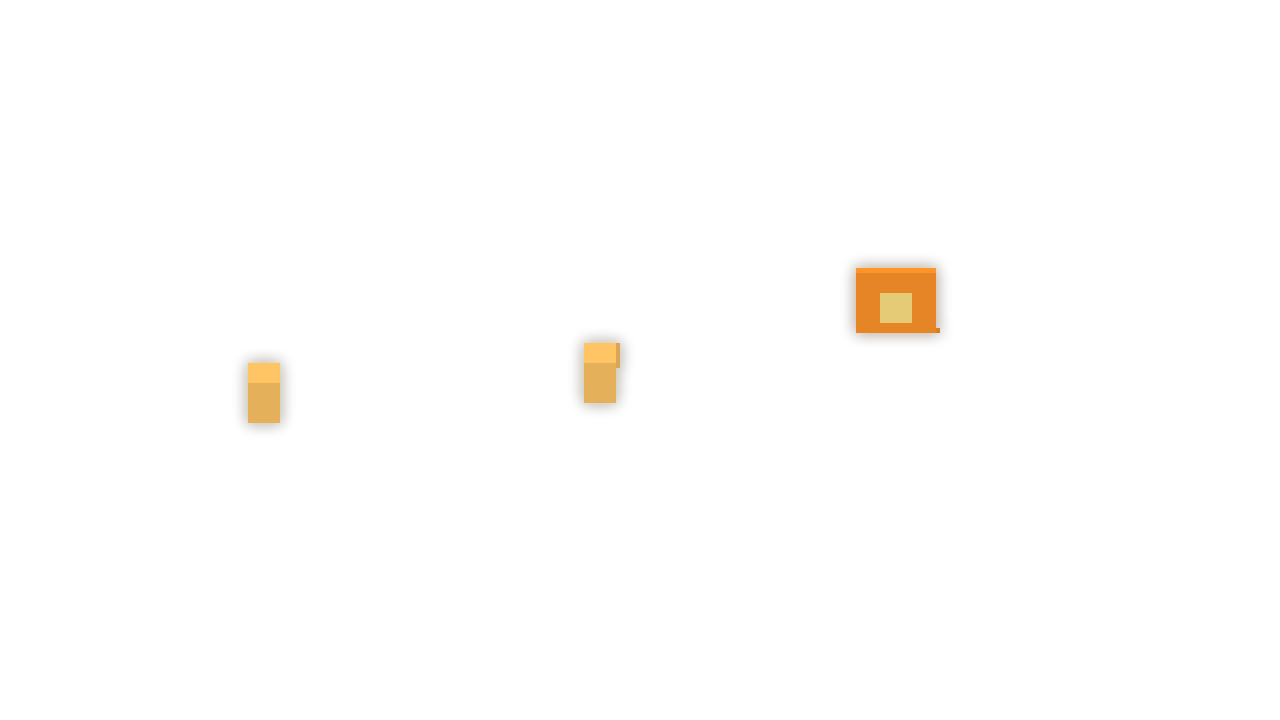
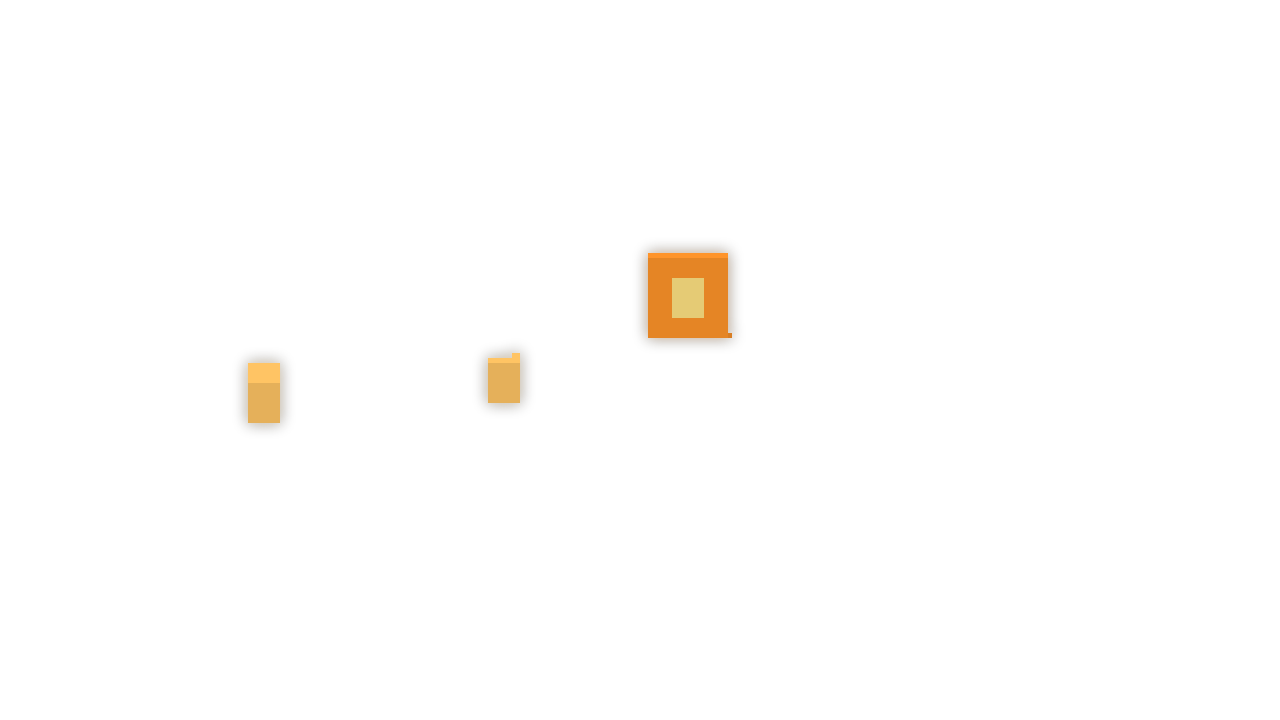
Art: Saloon C concept-scale crew + fireplace clear of every card
Drop sprite scale to 1.0 so hireable figures match concept C (~84×230).
Move the fireplace center-back so both card strips miss it; all seats keep
card_side away from the figure with callout from card edge to anchor.
art_saloon_test asserts card vs fireplace_rect and vs hit_rect.

Changed region(s): [[0.375, 0.3361, 0.5938, 0.5806], [0.6562, 0.3667, 0.75, 0.4889]]

diff --git a/tools/art/saloon_concept_c.py b/tools/art/saloon_concept_c.py
@@ -1,8 +1,9 @@
-"""Vendored concept-C layout for the Saloon bake (from concepts/saloon_v2)."""
-from saloon_iso import *
-from saloon_iso import Scene, figure, stool, table, lightfield
+"""Vendored concept-C layout for the Saloon bake (from concepts/saloon_v2).
 
-WOOD_LT = (138, 108, 78)
+Fireplace sits center-back so BOTH left and right hire-card strips stay clear.
+"""
+from saloon_iso import Scene, figure, stool, table, lightfield, W, D, H
+
 WOOD_DK = (102, 78, 56)
 WOOD_TOP = (152, 118, 84)
 FLOOR_A = (82, 62, 46)
@@ -19,11 +20,25 @@ P = [
     dict(shirt=(132, 62, 52), skin=(208, 170, 132), hat=(200, 112, 48), hatstyle="mohawk", facing="front"),
 ]
 
+# Screen-space fireplace AABB after projection (documented for tests / UI).
+# Voxel x 80–108 → ~640–864 px — between card strips (left≤380, right≥900).
+FIREPLACE_SCREEN = [560, 50, 280, 180]  # structure only; glow may soft-bleed but card clears structure
+FIREPLACE_VOX = [72, 4, 100, 14]
+
+SEATS_VOX = [
+    (32, 21, 9),   # bar_left
+    (44, 46, 9),   # table_left
+    (58, 42, 9),   # table_mid
+    (70, 48, 9),   # table_right — still left of fireplace
+]
+
+
 def floor_boards(sc, c1, c2):
     for x in range(0, W, 8):
         sc.box(x, 0, 0, min(W, x + 8), D, 2, c1 if (x // 8) % 2 else c2, noise=0.035, seed=x)
     for x in range(8, W, 8):
         sc.box(x, 0, 1, x + 1, D, 2, tuple(max(0, v - 14) for v in c2))
+
 
 def build_C(with_hireables=True):
     sc = Scene()
@@ -31,39 +46,41 @@ def build_C(with_hireables=True):
     sc.box(0, 0, 0, W, 5, H, WALL, noise=0.05, seed=4)
     for x in range(6, 140, 30):
         sc.box(x, 3, 0, x + 2, 5, H, (54, 40, 30))
-    # Fireplace mid-right
-    sc.box(98, 4, 2, 126, 11, 20, (90, 84, 78), noise=0.09, seed=8)
-    sc.box(104, 10, 2, 120, 12, 10, (26, 18, 14))
-    sc.box(107, 11, 2, 117, 13, 8, (255, 148, 42), em=True)
-    sc.box(110, 12, 3, 114, 13, 6, (255, 226, 130), em=True)
+    # Fireplace CENTER-BACK (not under either card strip)
+    fx0, fy0, fx1, fy1 = 72, 4, 100, 12
+    sc.box(fx0, fy0, 2, fx1, fy1, 20, (90, 84, 78), noise=0.09, seed=8)
+    sc.box(fx0 + 6, 10, 2, fx1 - 6, 13, 12, (26, 18, 14))
+    sc.box(fx0 + 9, 11, 2, fx1 - 9, 14, 10, (255, 148, 42), em=True)
+    sc.box(fx0 + 12, 12, 4, fx1 - 12, 14, 8, (255, 226, 130), em=True)
+    sc.box(fx0 + 14, 13, 5, fx1 - 14, 14, 7, (255, 250, 200), em=True)
     # Short left bar
     sc.box(6, 12, 2, 62, 18, 12, WOOD_DK, noise=0.04, seed=9)
     sc.box(5, 11, 12, 63, 19, 13, WOOD_TOP)
     for x in (12, 32, 50):
         stool(sc, x, 21, (104, 68, 48), STOOL_LEG)
-    for x, y in ((24, 44), (66, 40)):
+    for x, y in ((24, 44), (54, 40)):
         table(sc, x, y, 18, 10, TABLE_TOP, TABLE_LEG)
         sc.box(x + 7, y + 3, 12, x + 11, y + 7, 16, (255, 196, 100), em=True)
-    for x, y in ((16, 46), (44, 46), (58, 42), (86, 42)):
+    for x, y in ((16, 46), (44, 46), (58, 42), (70, 48)):
         stool(sc, x, y, (96, 66, 46), STOOL_LEG)
     sc.box(4, 54, 2, 14, 64, 8, (86, 66, 48), noise=0.07, seed=12)
     # Bartender
     figure(sc, 26, 4, 2, (92, 58, 50), (198, 152, 114), (72, 52, 44), 0,
            seated=False, facing="front", hatstyle="hood")
-    seats = [(32, 21, 9), (44, 46, 9), (58, 42, 9), (86, 42, 9)]
     pals = [P[0], dict(P[1], hatstyle="wide", hat=(178, 178, 168), facing="front"),
             dict(P[3], hatstyle="cap"), P[2]]
     if with_hireables:
-        for i, (st, p) in enumerate(zip(seats, pals), 1):
+        for i, (st, p) in enumerate(zip(SEATS_VOX, pals), 1):
             kw = dict(p)
             facing = kw.pop("facing", "back")
             hatstyle = kw.pop("hatstyle", "cap")
             figure(sc, *st, own=i, shirt=kw["shirt"], skin=kw["skin"], hat=kw["hat"],
                    seated=True, facing=facing, hatstyle=hatstyle)
+    # Fire light centered on new fireplace
     light = lightfield(0.30, [
-        (112, 14, 0, 42, 1.10),
+        (86, 14, 0, 42, 1.15),
         (33, 49, 0, 18, 0.75),
-        (75, 45, 0, 18, 0.75),
+        (63, 45, 0, 18, 0.75),
         (37, 18, 0, 22, 0.30),
     ])
-    return sc, light, seats
+    return sc, light, list(SEATS_VOX)

diff --git a/tools/art/saloon_room.py b/tools/art/saloon_room.py
@@ -11,10 +11,10 @@ OUT = os.path.join(HERE, "..", "..", "art", "saloon")
 from saloon_iso import night_grade, S, TOP, FRONT  # noqa: E402
 from saloon_concept_c import build_C as _build_C  # noqa: E402
 
-SPRITE_SCALE = 1.35
+SPRITE_SCALE = 1.0  # exact concept C figure scale
 SEAT_IDS = ["bar_left", "table_left", "table_mid", "table_right"]
 # Concept C crew() seat voxel centres
-SEAT_VOX = [(32, 21, 9), (44, 46, 9), (58, 42, 9), (86, 42, 9)]
+SEAT_VOX = [(32, 21, 9), (44, 46, 9), (58, 42, 9), (70, 48, 9)]
 
 
 def write_import(path: str) -> None:
@@ -165,7 +165,9 @@ def main():
         hw = max(64, nw + 24); hh = max(64, nh + 24)
         hx = int(np.clip(pos[0] + nw / 2 - hw / 2, 0, 1280 - hw))
         hy = int(np.clip(pos[1] + nh / 2 - hh / 2, 0, 720 - hh))
-        side = "right" if (pos[0] + nw // 2) < 700 else "left"
+        # Card opens away from the figure. Fireplace is center-back (clear of both strips).
+        cx = pos[0] + nw // 2
+        side = "right" if cx < 640 else "left"
         seats_out.append({
             "id": sid, "slot": slot, "pos": pos, "z": int(pos[1] + nh),
             "hit_rect": [hx, hy, hw, hh], "anchor": [ax, ay], "card_side": side,
@@ -178,6 +180,9 @@ def main():
 
     meta = {
         "room_size": [1280, 720],
+        "fireplace_rect": [560, 50, 280, 180],
+        "card_left_rect": [24, 72, 356, 448],
+        "card_right_rect": [900, 72, 356, 448],
         "camera": "near-isometric ~52° (S=8,TOP=5,FRONT=10,SIDE=4) — identical to saloon_v2 concept C",
         "tilt_note": "Not garage TILT 30°. Matches approved concepts/saloon_v2/saloon_c_*.png.",
         "sun": "upper-left → hard shadows down-right",
